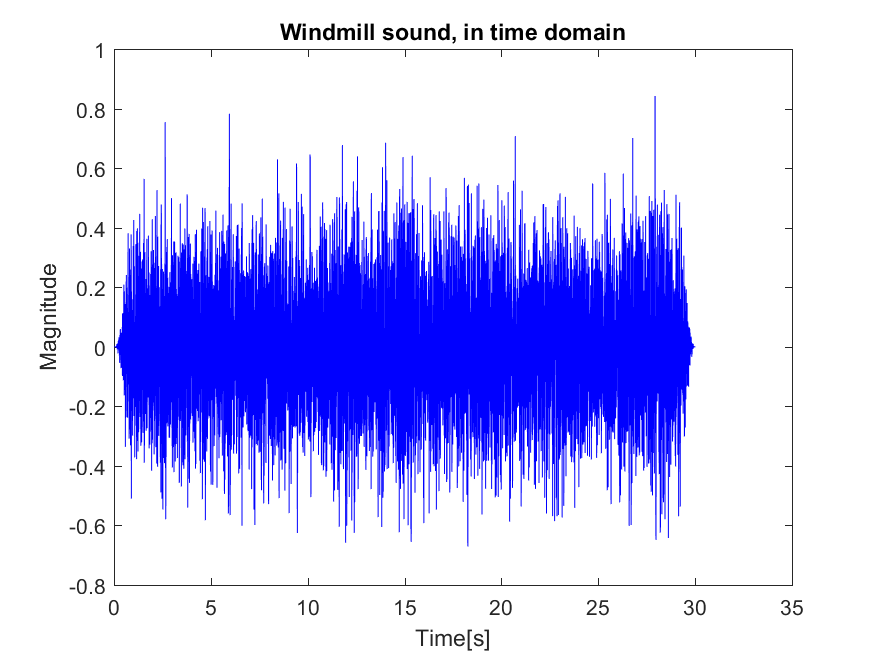
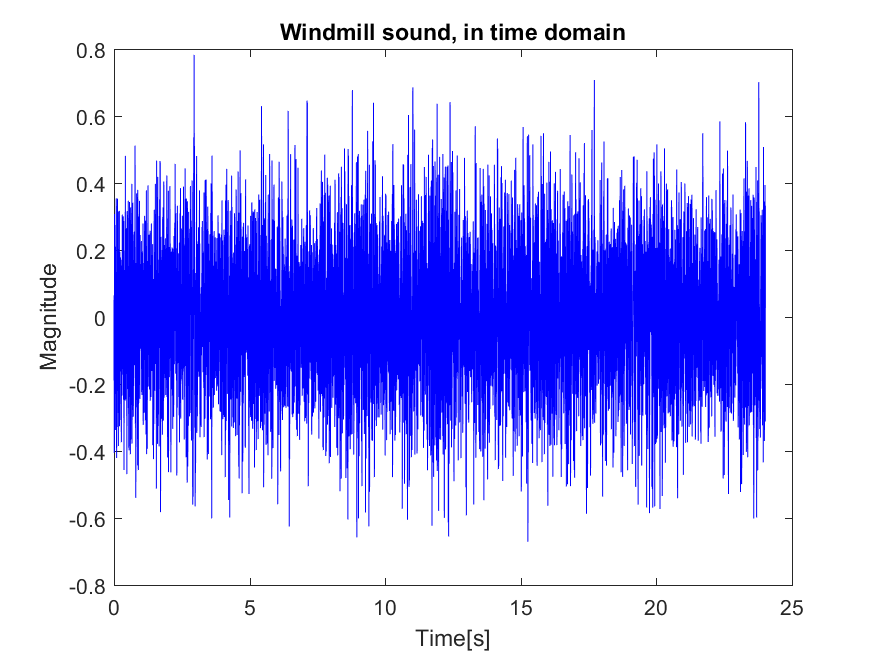
EKG

diff --git a/code/windmill.m b/code/windmill.m
@@ -4,7 +4,7 @@ figureTitle = 'Windmill';
 % load file
 [y,Fs] = audioread('./windmill.wav');
 y = y(:,1);
-%y = y(0.1*end:0.9*end,1);   % Only load one channel from 10 % - 90 %
+y = y(0.1*end:0.9*end,1);   % Only load one channel from 10 % - 90 %
 % use DFT (fft)
 Y = fft(y);
 
@@ -32,6 +32,7 @@ grid on
 title([figureTitle, ' sound, in frequency domain(FFT)']);
 xlabel('Frequency [Hz]');
 ylabel('Magnitude [dB]');
+xlim([10^-2 Fs/2+10000]);
 
 [YMax, NMax] = max(YdB(1:N/2));
 FMax = frequency_samples(NMax);
@@ -41,13 +42,14 @@ YSmooth = smooth(YdB);
 
 % Mix of smooth and discrete fourier transform
 figure(3);
-semilogx(frequency_samples(1:N/2), YdB(1:N/2), 'r');
+semilogx(frequency_samples(1:N/2), YSmooth(1:N/2), 'r');
+%semilogx(frequency_samples(1:N/2), YdB(1:N/2), 'r');
 hold on
-title([figureTitle, ' sound, in frequency domain, pure FFT vs Smooth']);
+title([figureTitle, ' sound, in frequency domain, Smooth']);
 xlabel('Frequency [Hz]');
 ylabel('Magnitude [dB]');
-semilogx(frequency_samples(1:N/2), YSmooth(1:N/2), 'b');
-legend([figureTitle,' sound FFt'],[figureTitle,' sound FFt and Smooth'], 'Location', 'southwest');
+xlim([10^-2 Fs/2+10000]);
+%legend([figureTitle,' sound FFt'],[figureTitle,' sound FFt and Smooth'], 'Location', 'southwest');
 grid on
 hold off
 
@@ -61,13 +63,14 @@ f_zpad_samples = [0:Fs/N_zpad: (Fs-(Fs/N_zpad))];
 YdB_zpad = 20*log10(abs(Y_zpad));
 
 figure(4);
-semilogx(f_zpad_samples(1:N_zpad/2), YdB_zpad(1:N_zpad/2), 'b');
+semilogx(f_zpad_samples(1:N_zpad/2), YdB_zpad(1:N_zpad/2), 'r');
 hold on
-title([figureTitle, ' sound, in frequency domain, pure FFT vs Zeropad']);
+title([figureTitle, ' sound, in frequency domain, Zeropad']);
 xlabel('Frequency [Hz]');
 ylabel('Magnitude [dB]');
-semilogx(frequency_samples(1:N/2), YdB(1:N/2), 'r');
-legend([figureTitle,' sound FFt and Zeropad'],[figureTitle,' sound FFt'], 'Location', 'southwest');
+xlim([10^-2 Fs/2+10000]);
+%semilogx(frequency_samples(1:N/2), YdB(1:N/2), 'r');
+%legend([figureTitle,' sound FFt and Zeropad'],[figureTitle,' sound FFt'], 'Location', 'southwest');
 grid on
 hold off
 
@@ -79,13 +82,14 @@ Y_win = fft(y_win);
 YdB_win = 20*log10(abs(Y_win));
 
 figure(5);
-semilogx(frequency_samples(1:N/2),YdB_win(1:N/2), 'b');
+semilogx(frequency_samples(1:N/2),YdB_win(1:N/2), 'r');
 hold on
-title([figureTitle, ' sound, in frequency domain, FFT vs Hamming windowing']);
+title([figureTitle, ' sound, in frequency domain, Hamming windowing']);
 xlabel('Frequency [Hz]');
 ylabel('Magnitude [dB]');
-semilogx(frequency_samples(1:N/2), YdB(1:N/2), 'r');
-legend([figureTitle,' sound FFt and Hamming windowing'],[figureTitle,' sound FFt'], 'Location', 'southwest');
+xlim([10^-2 Fs/2+10000]);
+%semilogx(frequency_samples(1:N/2), YdB(1:N/2), 'r');
+%legend([figureTitle,' sound FFt and Hamming windowing'],[figureTitle,' sound FFt'], 'Location', 'southwest');
 grid on
 hold off
 

diff --git a/frequency_analysis.tex b/frequency_analysis.tex
@@ -12,11 +12,11 @@ The approach of this analysis will be to plot the signal in the time domain, the
 	{\includegraphics[width=0.45\linewidth]{code/Car_figure1.png}}
 	\subcaptionbox{Frequency Domain.\label{fig:car_freq}}
 	{\includegraphics[width=0.45\linewidth]{code/Car_figure2.png}}
-	\subcaptionbox{The original fft result vs smoothed result.\label{fig:car_smooth}}
+	\subcaptionbox{Smoothed fft.\label{fig:car_smooth}}
 	{\includegraphics[width=0.45\linewidth]{code/Car_figure3.png}}
-	\subcaptionbox{The original fft result vs zero padded original.\label{fig:car_zero}}
+	\subcaptionbox{fft of zero padded original.\label{fig:car_zero}}
 	{\includegraphics[width=0.45\linewidth]{code/Car_figure4.png}}
-	\subcaptionbox{The original fft result vs windowed original.\label{fig:car_window}}
+	\subcaptionbox{fft of windowed original.\label{fig:car_window}}
 	{\includegraphics[width=0.45\linewidth]{code/Car_figure5.png}}
 	\caption{Analysis of the sound of a car.}\label{fig:car}
 \end{figure}
@@ -28,11 +28,11 @@ The approach of this analysis will be to plot the signal in the time domain, the
 	{\includegraphics[width=0.45\linewidth]{code/Windmill_figure1.png}}
 	\subcaptionbox{Frequency Domain.\label{fig:windmill_freq}}
 	{\includegraphics[width=0.45\linewidth]{code/Windmill_figure2.png}}
-	\subcaptionbox{The original fft result vs smoothed result.\label{fig:windmill_smooth}}
+	\subcaptionbox{Smoothed fft.\label{fig:windmill_smooth}}
 	{\includegraphics[width=0.45\linewidth]{code/Windmill_figure3.png}}
-	\subcaptionbox{The original fft result vs zero padded original.\label{fig:windmill_zero}}
+	\subcaptionbox{fft of zero padded original.\label{fig:windmill_zero}}
 	{\includegraphics[width=0.45\linewidth]{code/Windmill_figure4.png}}
-	\subcaptionbox{The original fft result vs windowed original.\label{fig:windmill_window}}
+	\subcaptionbox{fft of windowed original.\label{fig:windmill_window}}
 	{\includegraphics[width=0.45\linewidth]{code/Windmill_figure5.png}}
 	\caption{Analysis of the sound of a windmill.}\label{fig:windmill}
 \end{figure}

diff --git a/code/car.m b/code/car.m
@@ -43,7 +43,7 @@ figure(3);
 %semilogx(frequency_samples(1:N/2), YdB(1:N/2), 'r');
 semilogx(frequency_samples(1:N/2), YSmooth(1:N/2), 'r');
 hold on
-title([figureTitle, ' sound, in frequency domain, pure FFT vs Smooth']);
+title([figureTitle, ' sound, in frequency domain, Smooth']);
 xlabel('Frequency [Hz]');
 ylabel('Magnitude [dB]');
 xlim([10^-2 Fs/2+10000])
@@ -63,7 +63,7 @@ YdB_zpad = 20*log10(abs(Y_zpad));
 figure(4);
 semilogx(f_zpad_samples(1:N_zpad/2), YdB_zpad(1:N_zpad/2), 'r');
 hold on
-title([figureTitle, ' sound, in frequency domain, pure FFT vs Zeropad']);
+title([figureTitle, ' sound, in frequency domain, Zeropad']);
 xlabel('Frequency [Hz]');
 ylabel('Magnitude [dB]');
 xlim([10^-2 Fs/2+10000])
@@ -83,7 +83,7 @@ figure(5);
 semilogx(frequency_samples(1:N/2),YdB_win(1:N/2), 'r');
 %semilogx(frequency_samples(1:N/2), YdB(1:N/2), 'r');
 hold on
-title([figureTitle, ' sound, in frequency domain, FFT vs Hamming windowing']);
+title([figureTitle, ' sound, in frequency domain, Hamming windowing']);
 xlabel('Frequency [Hz]');
 ylabel('Magnitude [dB]');
 xlim([10^-2 Fs/2+10000])
